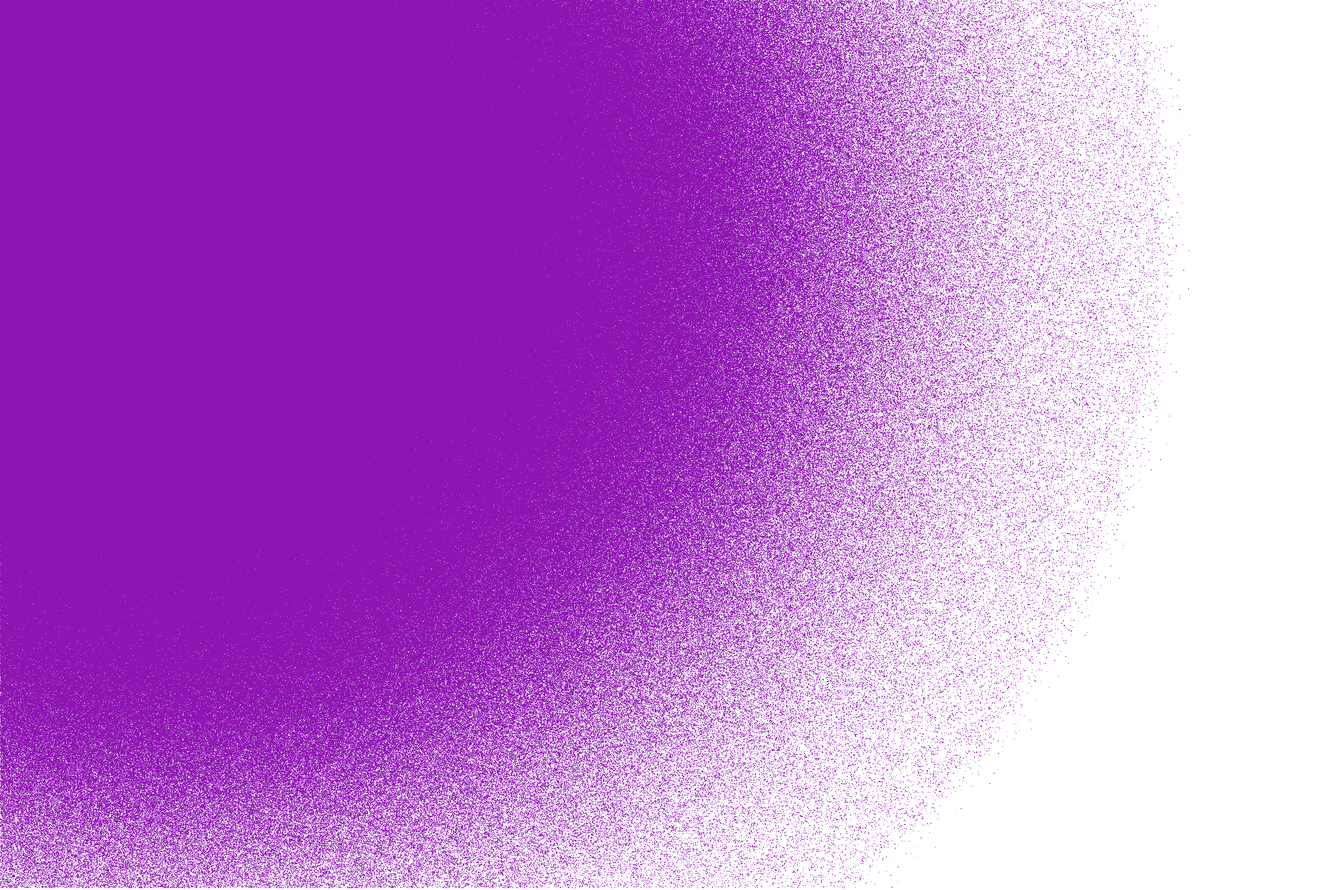
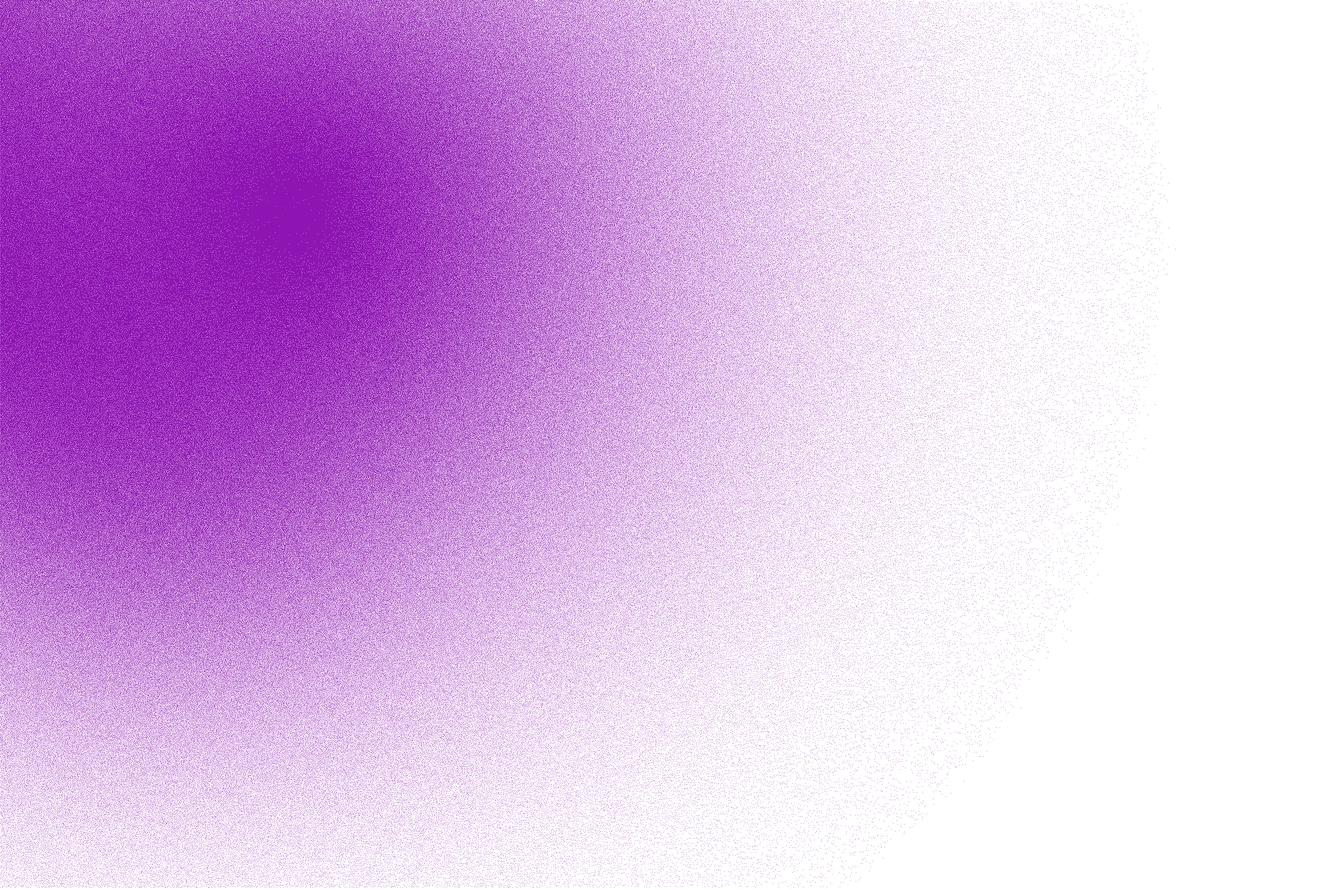
update image

Changed region(s): [[0.0, 0.0, 0.806, 1.0]]

diff --git a/nuxt/components/homepage/Hero.vue b/nuxt/components/homepage/Hero.vue
@@ -1,8 +1,13 @@
 <template>
-  <section class="relative px-4 pt-12 w-full h-[80svh] bg-[radial-gradient(80.40%_89.55%_at_0%_6.29%,rgba(186,0,255,1)_0%,rgba(0,0,0,0)_100%)]">
+  <section class="relative px-4 pt-12 w-full h-[80svh]">
     <div class="ml-col1 pl-4">
-      <IconsLogo class="h-24 w-auto" />
-      <p class="font-hatton text-hatton-m mt-8 w-[20rem]">
+      <IconsLogo class="h-24 z-10 relative w-auto" />
+      <img
+        src="/pngs/homepage_gradient.png"
+        alt="Hero Image"
+        class="absolute z-0 top-0 left-0 w-full h-full object-contain object-left"
+      />
+      <p class="font-hatton z-10 relative text-hatton-m mt-8 w-[20rem]">
         A multi-city art campaign to dream, envision, and create a <span class="text-navigation-highlight">future where all youth are free, safe, and thriving.</span>
       </p>
     </div>
